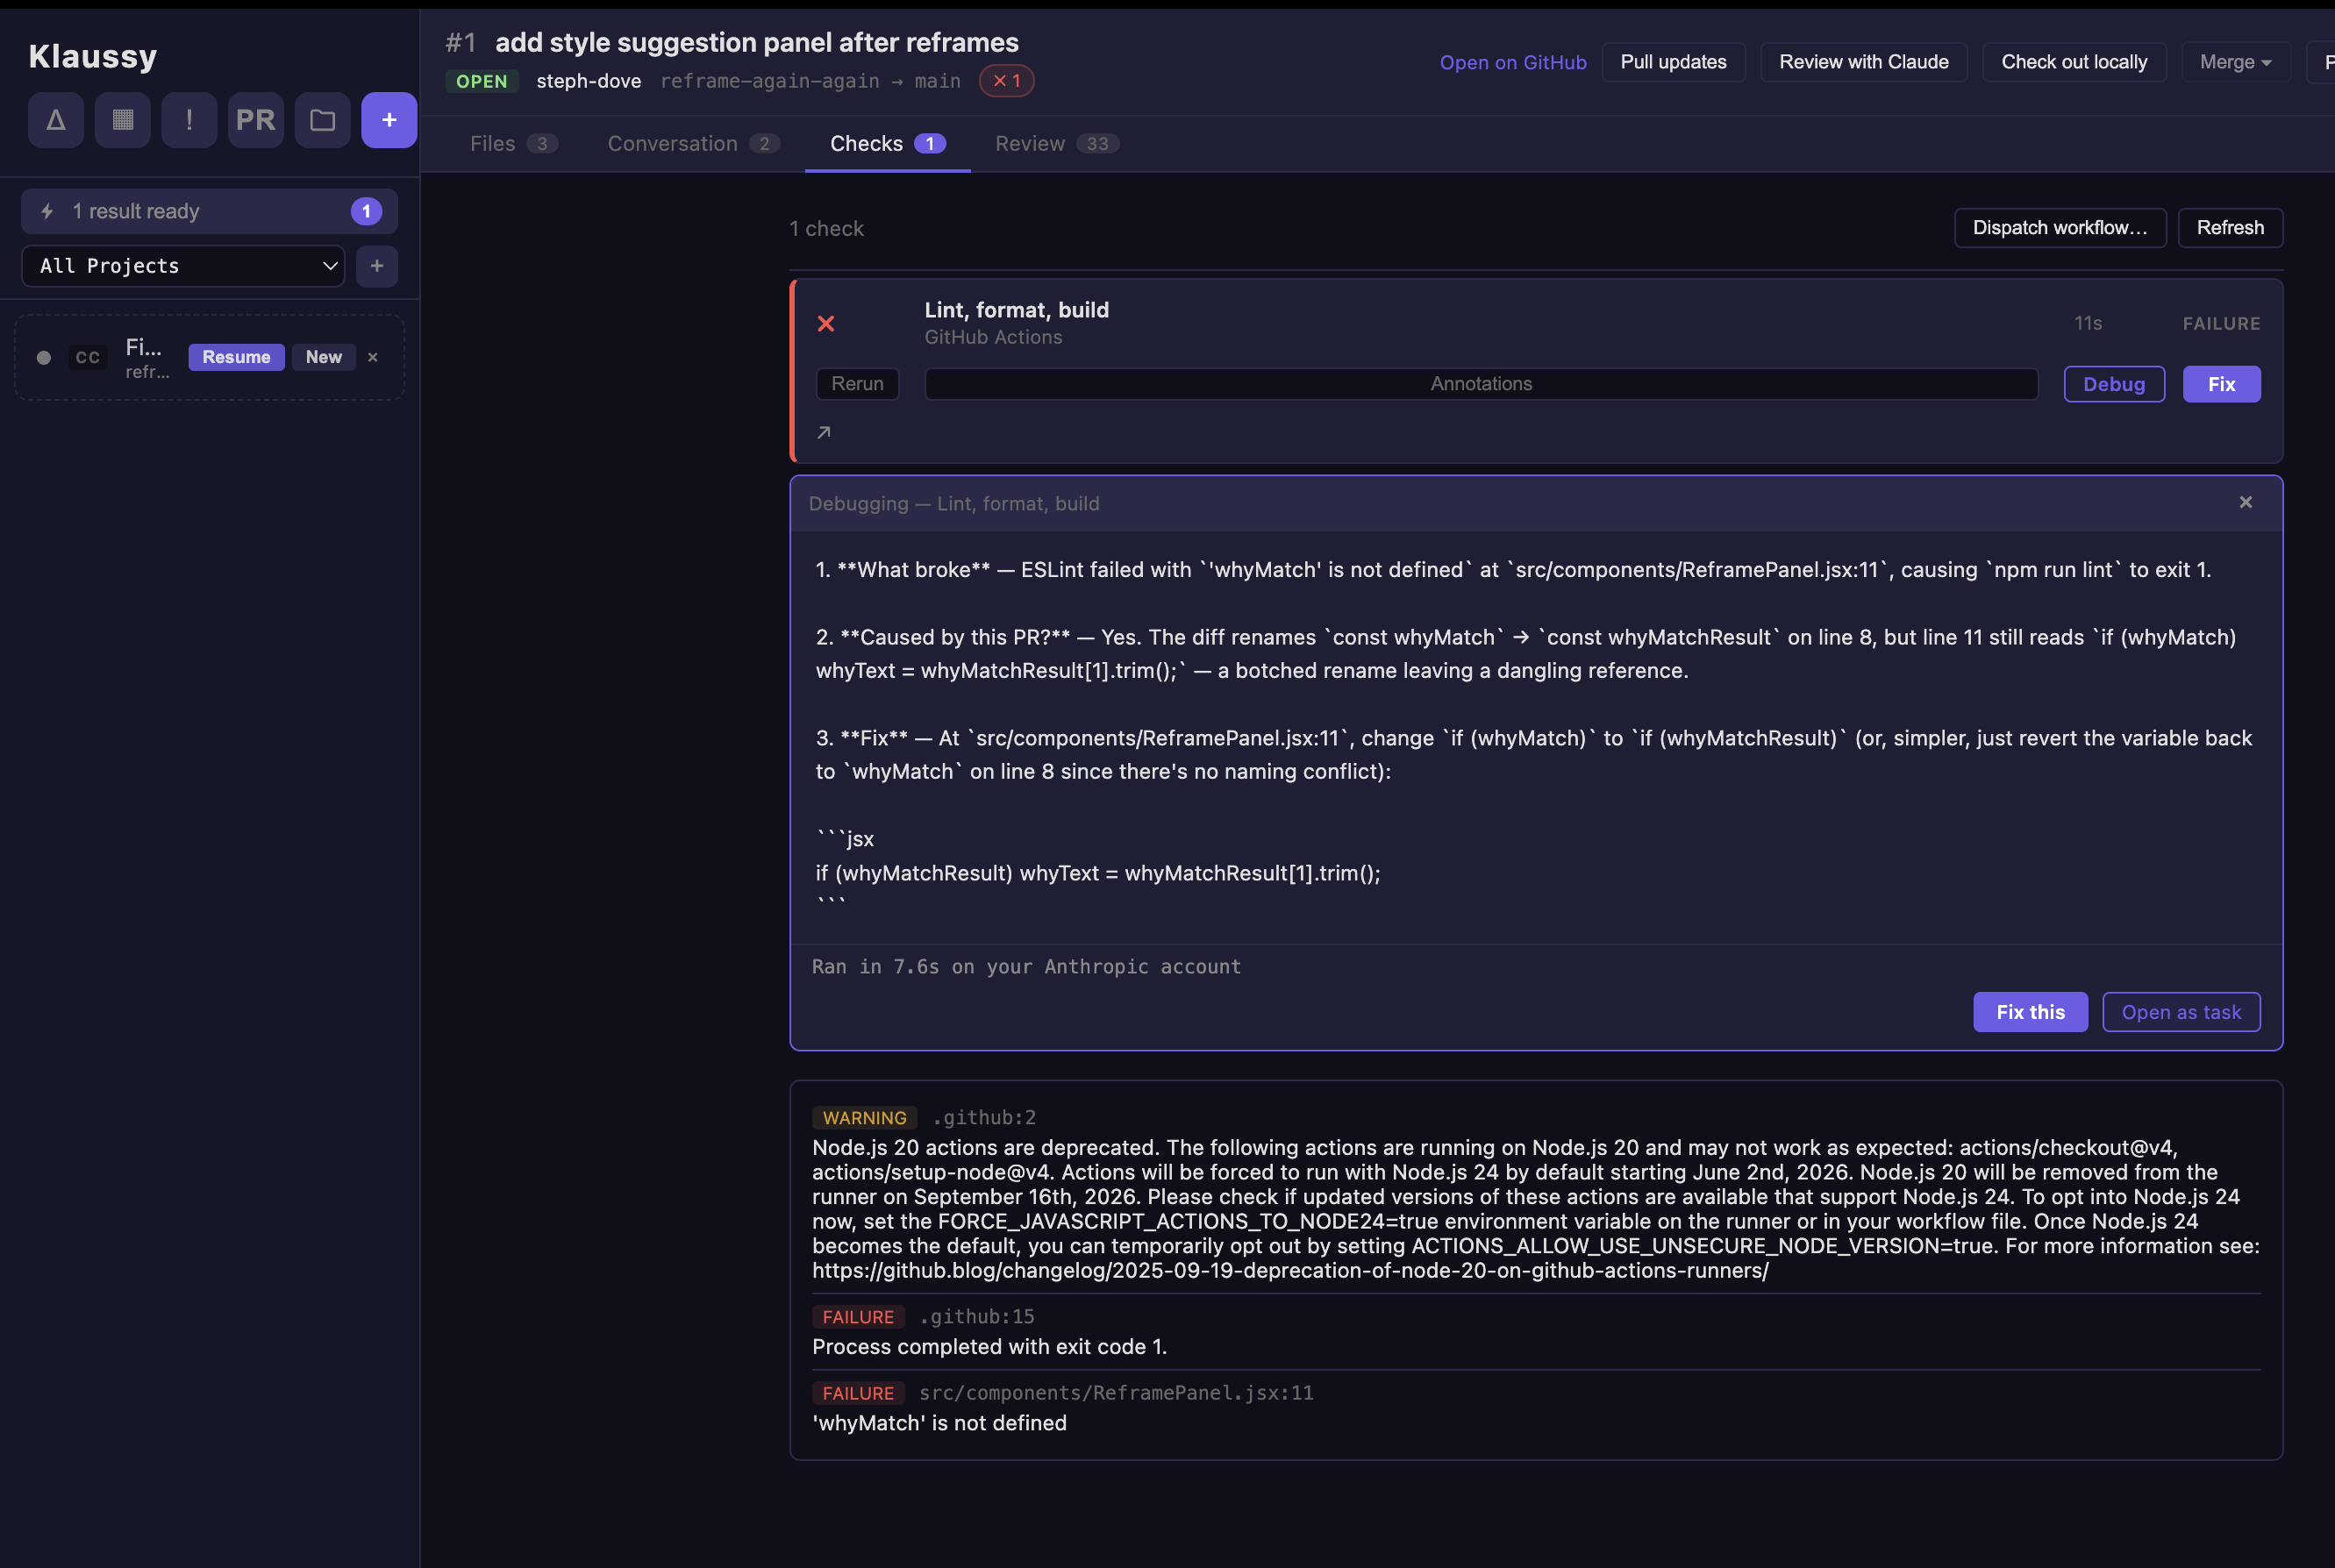
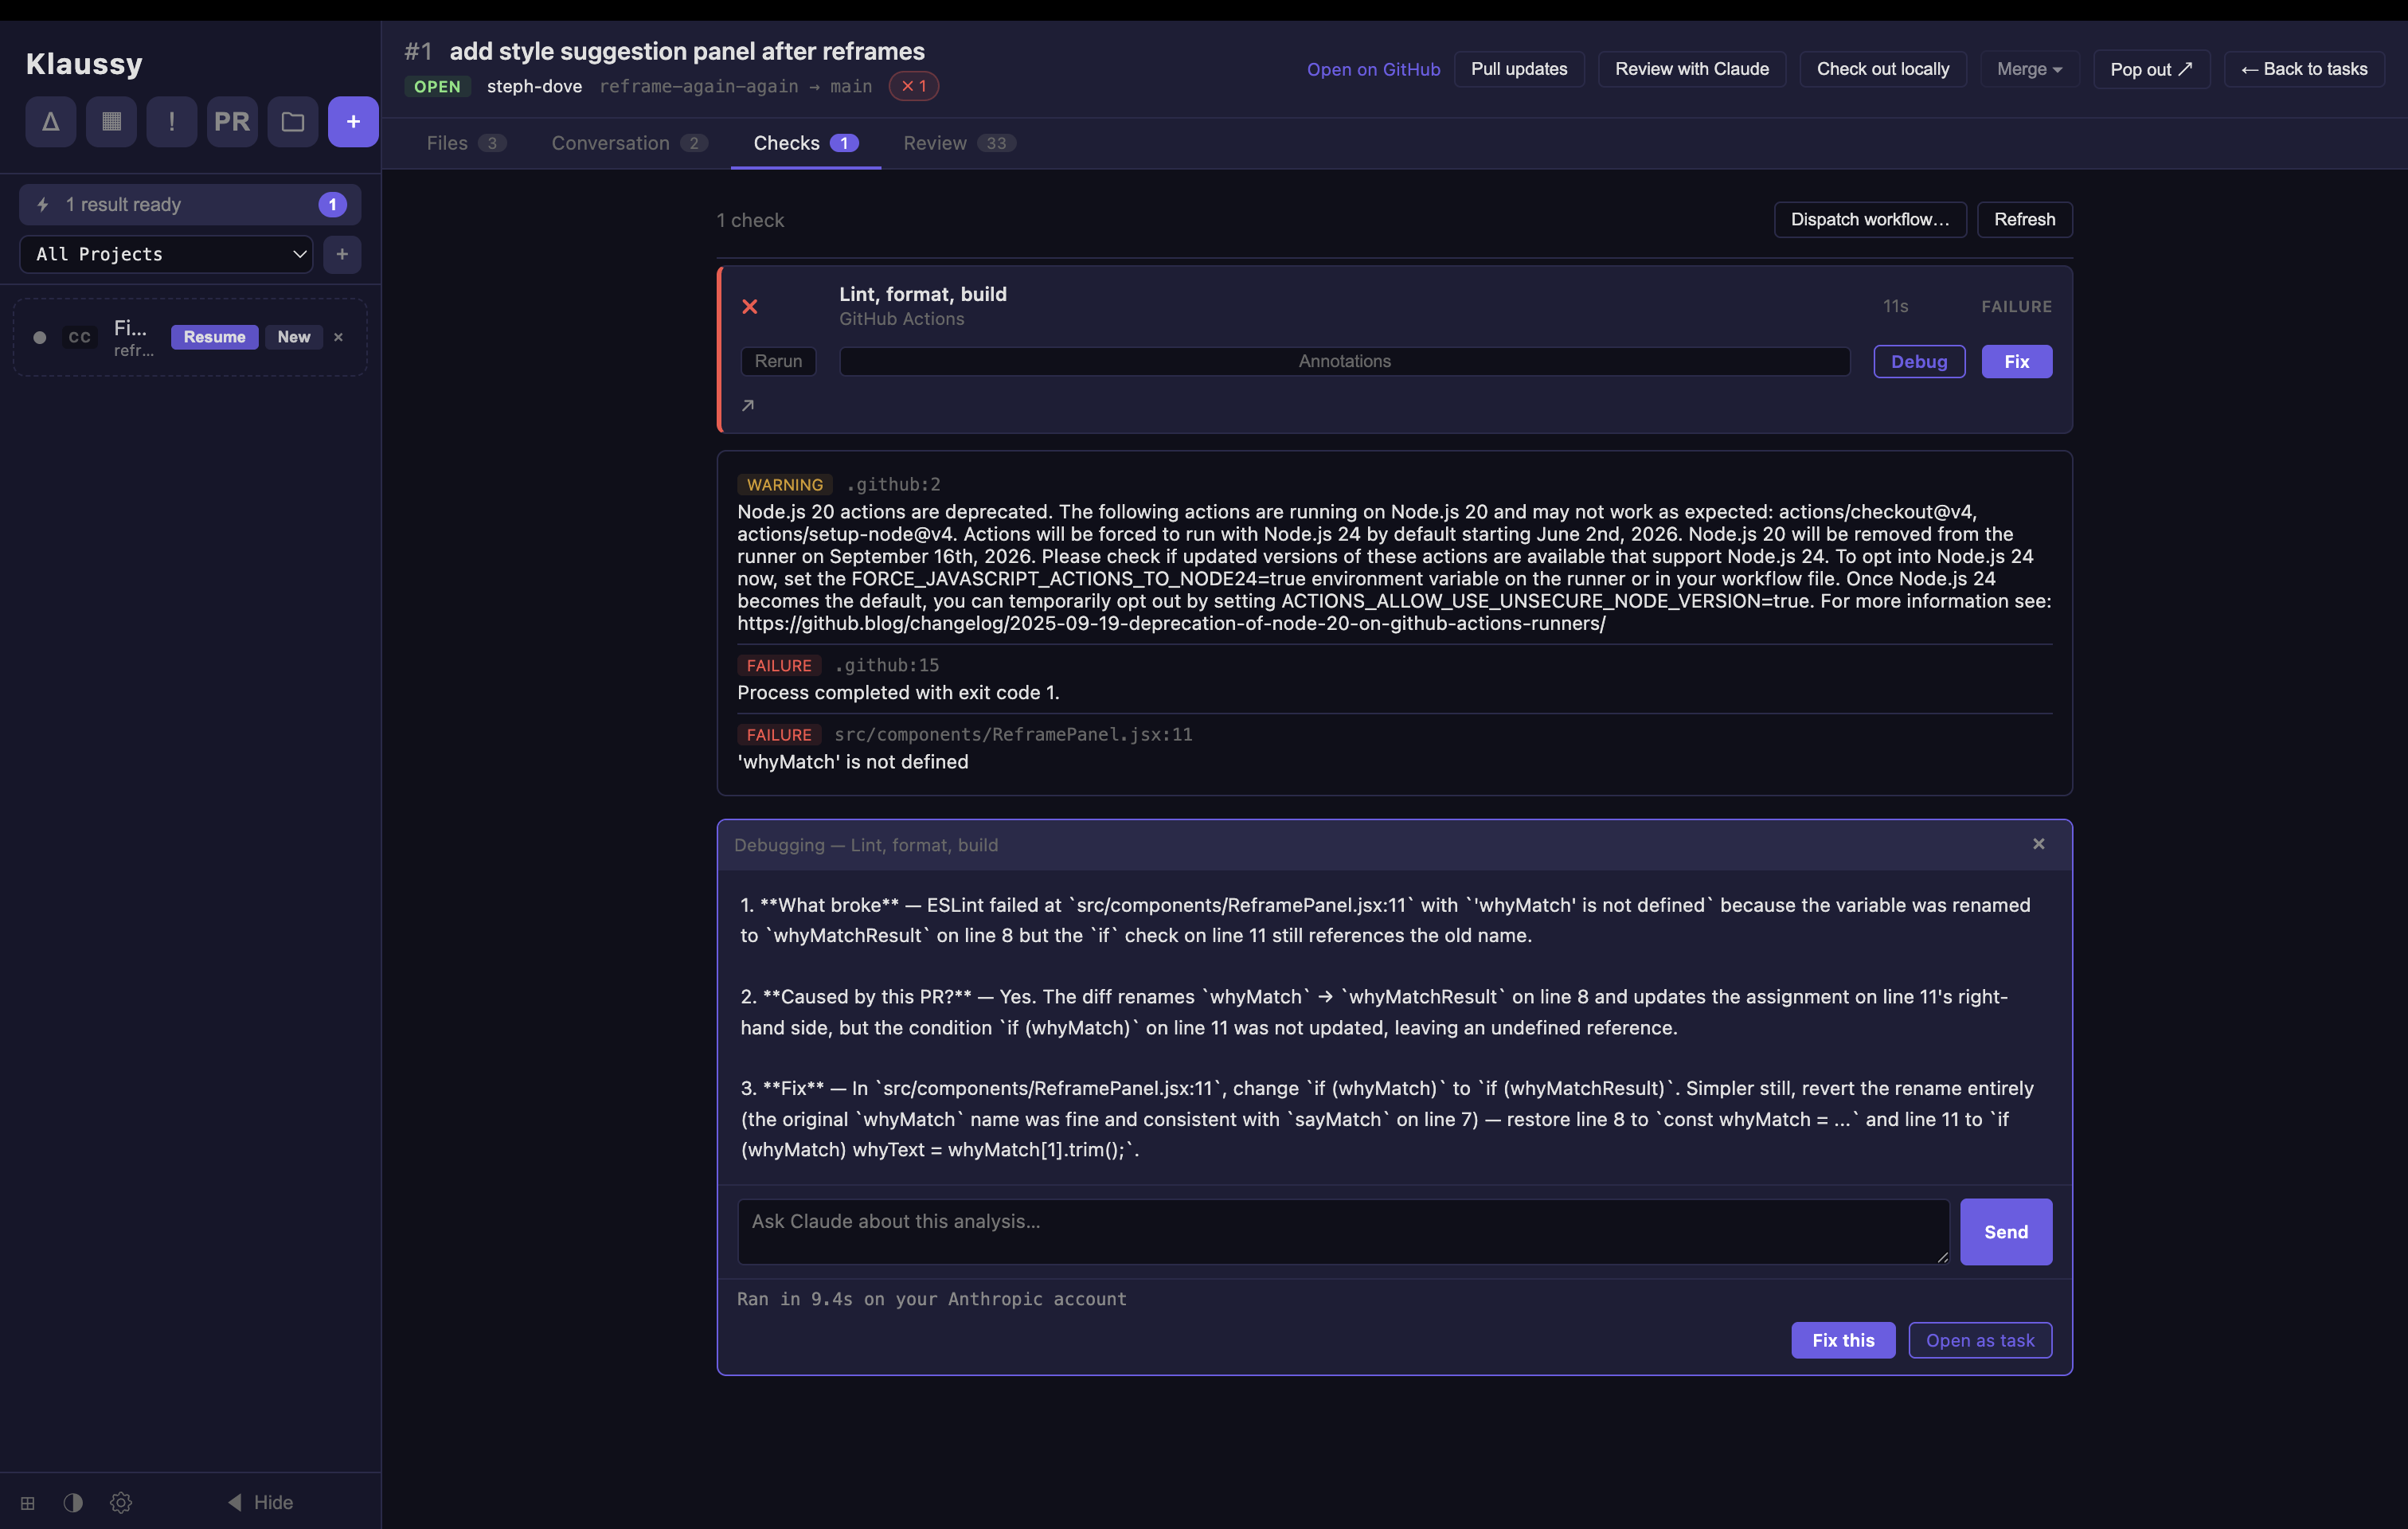
landing: refresh debug-CI screenshot
New screenshot also shows the annotations panel expanded with the
file:line failures and the chat composer below Claude's analysis,
matching what users actually see in v0.2.10. Caption + alt text updated
to mention the follow-up chat.

diff --git a/index.html b/index.html
@@ -112,10 +112,10 @@
              onerror="this.parentElement.style.display='none';" />
       </div>
 
-      <p class="example-sub">Debugging a failing CI check: click <strong>Debug</strong> on the red row and Claude pulls the job logs, points at the exact line, and proposes a fix. Then click <strong>Fix this</strong> to have Claude apply it in the PR worktree.</p>
+      <p class="example-sub">Debugging a failing CI check: click <strong>Debug</strong> on the red row and Claude pulls the job logs, points at the exact line, and proposes a fix. Ask follow-ups in the chat, then click <strong>Fix this</strong> to have Claude apply it in the PR worktree.</p>
       <div class="example-shot-wrap">
         <img class="example-shot" src="screenshot-debug-ci.png"
-             alt="Klaussy's Checks tab showing a failing 'Lint, format, build' run. The Debug panel below has expanded with Claude's three-part analysis (what broke, caused-by-this-PR, fix) and shows 'Fix this' and 'Open as task' buttons."
+             alt="Klaussy's Checks tab showing a failing 'Lint, format, build' run with its file:line annotations expanded. Below, the Debug panel shows Claude's three-part analysis (what broke, caused-by-this-PR, fix) and a chat composer for follow-up questions, plus 'Fix this' and 'Open as task' buttons."
              onerror="this.parentElement.style.display='none';" />
       </div>
 